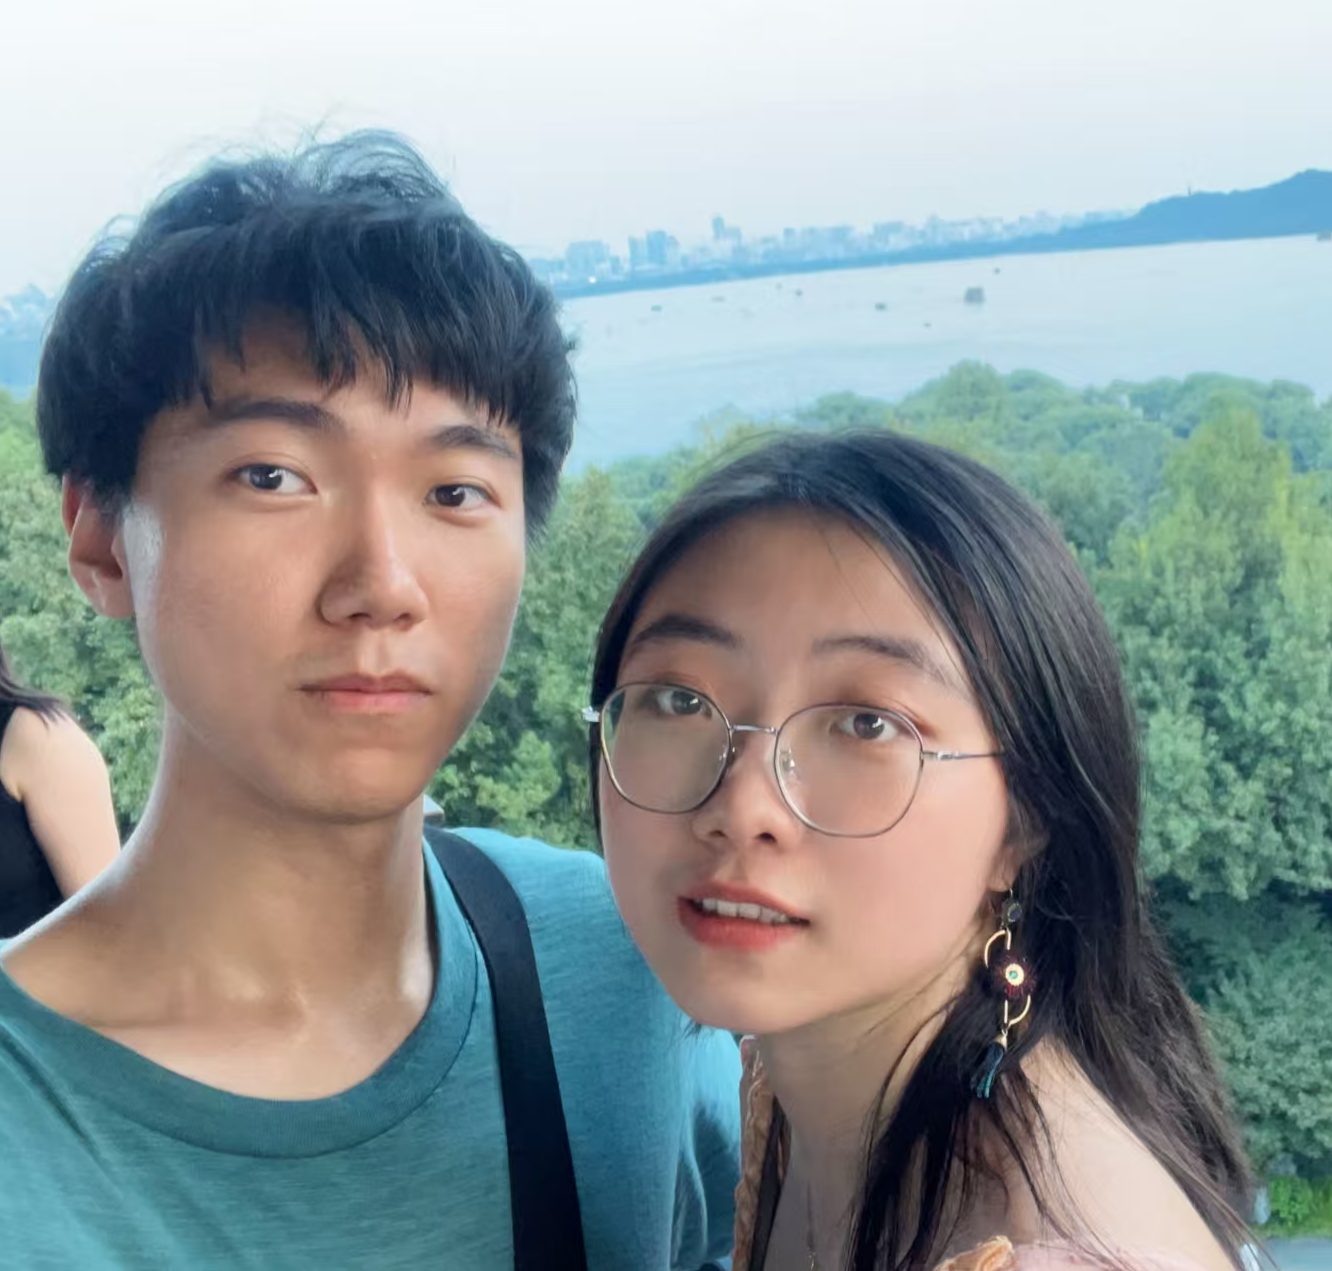
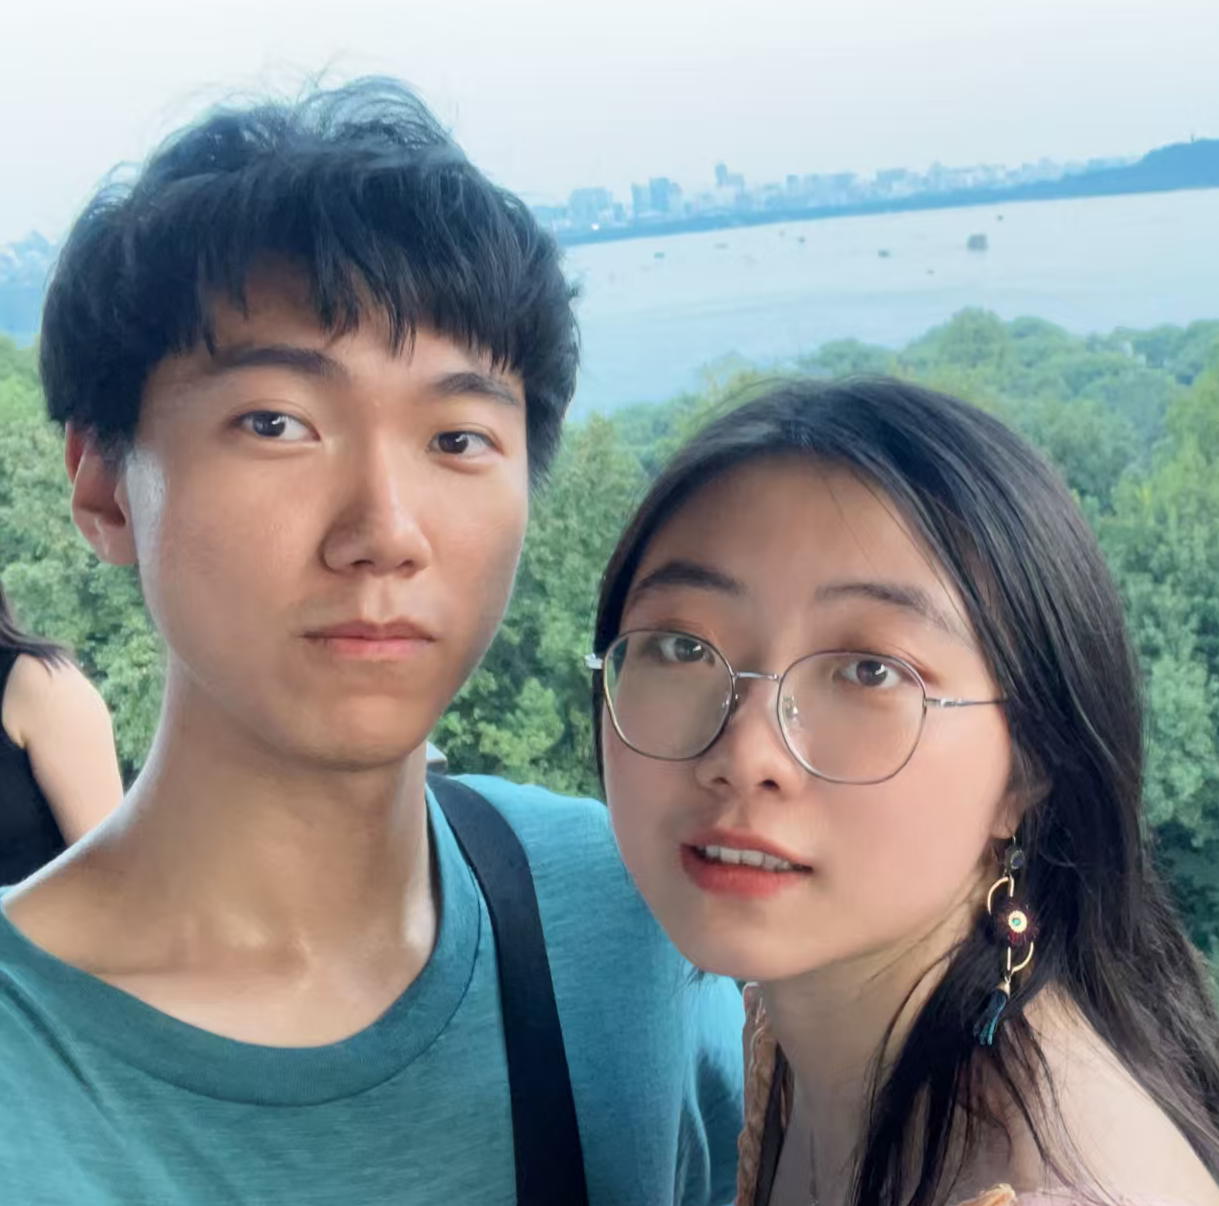
refine2

diff --git a/_includes/head/custom.html b/_includes/head/custom.html
@@ -11,7 +11,7 @@
 <link rel="icon" type="image/png" href="{{ base_path }}/images/favicon-32x32.png" sizes="32x32"/>
 <link rel="icon" type="image/png" href="{{ base_path }}/images/favicon-192x192.png" sizes="192x192"/>
 <link rel="manifest" href="{{ base_path }}/images/manifest.json"/>
-<link rel="icon" href="/images/favicon.ico"/>
+<link rel="icon" href="{{ base_path }}/images/favicon.ico"/>
 <meta name="theme-color" content="#ffffff"/>
 {% if page.robots %}
 <meta name="robots" content="{{ page.robots }}"/>

diff --git a/_includes/footer/custom.html b/_includes/footer/custom.html
@@ -1,6 +1,6 @@
 <!-- start custom footer snippets -->
 
-<a href="/sitemap/">Sitemap</a>
+<a href="{{ base_path }}/sitemap/">Sitemap</a>
 
 <!-- Support for MatJax -->
 <script defer src="https://cdnjs.cloudflare.com/polyfill/v3/polyfill.min.js?features=es6"></script>
